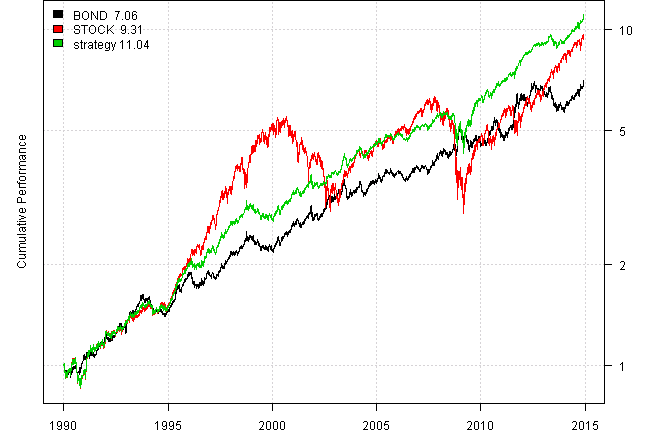
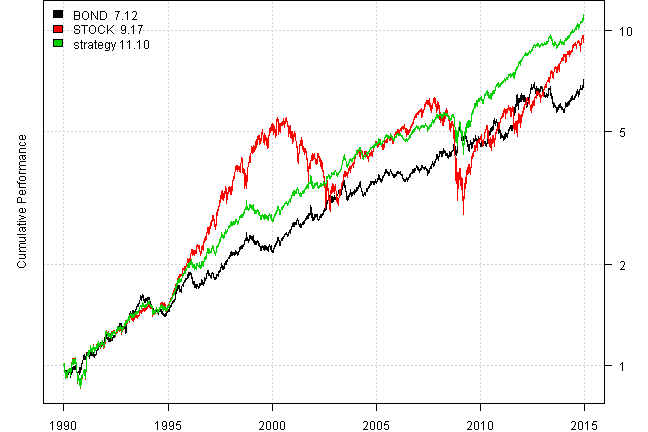
update post

diff --git a/_posts/2014-12-13-Stock-Bond-Model.md b/_posts/2014-12-13-Stock-Bond-Model.md
@@ -56,7 +56,7 @@ Next let's compute the Stock Allocation:
 
 
 {% highlight r %}
-metric.data$StockAllocation = eval(expression(((A+F)/1000)/(((A+F)/1000)+B+C+D+E+G)), metric.data)
+metric.data$StockAllocation = with(metric.data, ((A+F)/1000)/(((A+F)/1000)+B+C+D+E+G))
 
 metric.data$AverageRatio  = SMA(ifna.prev(metric.data$StockAllocation),4)
 
@@ -177,12 +177,12 @@ print(plotbt.strategy.sidebyside(models, make.plot=F, return.table=T))
 |           |BOND              |STOCK             |strategy          |
 |:----------|:-----------------|:-----------------|:-----------------|
 |Period     |Jan1990 - Dec2014 |Jan1990 - Dec2014 |Jan1990 - Dec2014 |
-|Cagr       |8.14              |9.35              |10.1              |
-|Sharpe     |0.8               |0.58              |1.03              |
+|Cagr       |8.18              |9.28              |10.12             |
+|Sharpe     |0.8               |0.58              |1.04              |
 |DVR        |0.76              |0.47              |0.95              |
-|Volatility |10.43             |18.06             |9.7               |
+|Volatility |10.43             |18.05             |9.7               |
 |MaxDD      |-18.78            |-55.25            |-25.07            |
-|AvgDD      |-2.16             |-2.22             |-1.38             |
+|AvgDD      |-2.15             |-2.22             |-1.38             |
 |VaR        |-1.04             |-1.73             |-0.9              |
 |CVaR       |-1.44             |-2.68             |-1.41             |
 |Exposure   |100               |100               |100               |
@@ -194,4 +194,4 @@ There is more to investigate. The fun part is that i was able to replicate this 
 
 
 
-*(this report was produced on: 2014-12-14)*
+*(this report was produced on: 2014-12-17)*
